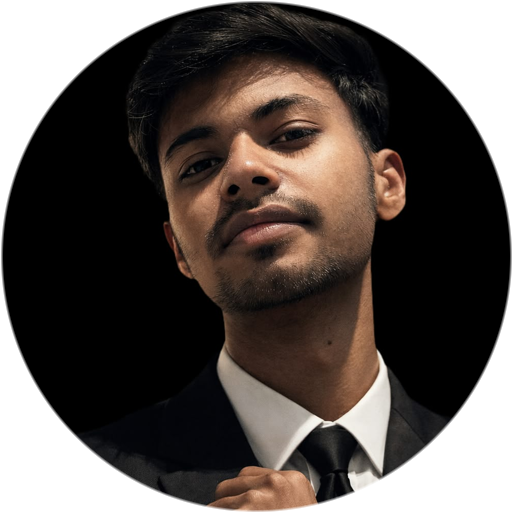
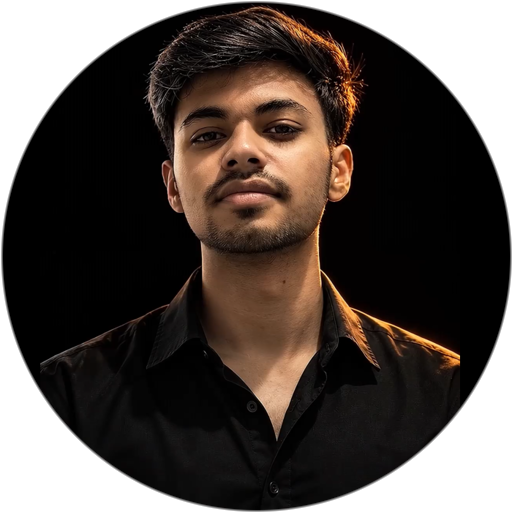
feat(projects): add Spotify clone, update Amana Capital image & repo, update circular URL portrait

diff --git a/src/components/projects/ProjectPreviewMockup.tsx b/src/components/projects/ProjectPreviewMockup.tsx
@@ -1,14 +1,16 @@
 'use client'
 
 import React from 'react'
+import Image from 'next/image'
 import styles from './HorizontalProjectCard.module.scss'
 
 interface ProjectPreviewMockupProps {
   projectId: string
   title: string
+  image?: string
 }
 
-export function ProjectPreviewMockup({ projectId, title }: ProjectPreviewMockupProps) {
+export function ProjectPreviewMockup({ projectId, title, image }: ProjectPreviewMockupProps) {
   if (projectId === 'amana-capital') {
     return (
       <div className={styles.mockupContainer} aria-label={`${title} interface preview`}>
@@ -19,64 +21,53 @@ export function ProjectPreviewMockup({ projectId, title }: ProjectPreviewMockupP
             <span className={styles.dotYellow} />
             <span className={styles.dotGreen} />
           </div>
-          <div className={styles.addressBar}>amana-capital.internal/loans/dashboard</div>
+          <div className={styles.addressBar}>amana-capital.official/loans</div>
           <div className={styles.statusLive}>
             <span className={styles.pulse} /> LIVE
           </div>
         </div>
 
-        {/* Dashboard Preview Body */}
-        <div className={styles.browserBody}>
-          <div className={styles.dashSidebar}>
-            <div className={styles.sidebarBrand}>Amana</div>
-            <div className={styles.sidebarLinkActive}>Loans</div>
-            <div className={styles.sidebarLink}>Customers</div>
-            <div className={styles.sidebarLink}>Disbursements</div>
-            <div className={styles.sidebarLink}>Reports</div>
-          </div>
+        {/* Real Screenshot Preview Body */}
+        <div className={styles.browserImageBody}>
+          <Image
+            src={image || '/images/projects/amana-capital.webp'}
+            alt="Amanah Capital Financial Solutions Platform"
+            fill
+            sizes="(max-width: 960px) 100vw, 50vw"
+            className={styles.mockupImage}
+            priority
+          />
+        </div>
+      </div>
+    )
+  }
 
-          <div className={styles.dashMain}>
-            <div className={styles.metricGrid}>
-              <div className={styles.metricBox}>
-                <span className={styles.mLabel}>Active Loans</span>
-                <span className={styles.mValue}>1,420</span>
-                <span className={styles.mTrend}>+12.4% this mo</span>
-              </div>
-              <div className={styles.metricBox}>
-                <span className={styles.mLabel}>Disbursed Total</span>
-                <span className={styles.mValue}>₹48.6L</span>
-                <span className={styles.mTrend}>99.2% repayment</span>
-              </div>
-              <div className={styles.metricBox}>
-                <span className={styles.mLabel}>System Health</span>
-                <span className={styles.mValue}>99.98%</span>
-                <span className={styles.mTrend}>JWT Auth Valid</span>
-              </div>
-            </div>
-
-            {/* Architecture loan lifecycle pipeline */}
-            <div className={styles.pipeline}>
-              <div className={styles.pipeStep}>
-                <span className={styles.stepNum}>01</span>
-                <span>Customer Records</span>
-              </div>
-              <span className={styles.pipeArrow}>→</span>
-              <div className={styles.pipeStep}>
-                <span className={styles.stepNum}>02</span>
-                <span>Loan Application</span>
-              </div>
-              <span className={styles.pipeArrow}>→</span>
-              <div className={styles.pipeStep}>
-                <span className={styles.stepNum}>03</span>
-                <span>EMI Payment</span>
-              </div>
-              <span className={styles.pipeArrow}>→</span>
-              <div className={styles.pipeStep}>
-                <span className={styles.stepNum}>04</span>
-                <span>Audit Reports</span>
-              </div>
-            </div>
+  if (projectId === 'spotify-clone') {
+    return (
+      <div className={styles.mockupContainer} aria-label={`${title} interface preview`}>
+        {/* Browser window header */}
+        <div className={styles.browserHeader}>
+          <div className={styles.trafficLights}>
+            <span className={styles.dotRed} />
+            <span className={styles.dotYellow} />
+            <span className={styles.dotGreen} />
           </div>
+          <div className={styles.addressBar}>spotify-clone.khairul.dev/web-player</div>
+          <div className={styles.statusLive}>
+            <span className={styles.pulse} /> LIVE
+          </div>
+        </div>
+
+        {/* Real Spotify Banner Preview Body */}
+        <div className={styles.browserImageBody}>
+          <Image
+            src={image || '/images/projects/spotify-clone.webp'}
+            alt="Spotify Web Player Clone"
+            fill
+            sizes="(max-width: 960px) 100vw, 50vw"
+            className={styles.mockupImage}
+            priority
+          />
         </div>
       </div>
     )

diff --git a/src/config/portfolio.ts b/src/config/portfolio.ts
@@ -132,13 +132,28 @@ export const portfolioConfig = {
       slug: 'amana-capital',
       title: 'Amana Capital',
       category: 'Loan Management System',
-      description: 'A web application for tracking microfinance loans, customer records, and automated EMI calculations with secure authentication.',
+      description:
+        'Amana Capital is an microfinance web application which gives users secure and trusted loans with customer record tracking and automated EMI calculations.',
       technologies: ['Node.js', 'Express', 'MySQL', 'JWT Auth', 'REST API'],
-      liveUrl: '#',
-      githubUrl: 'https://github.com',
+      githubUrl: 'https://github.com/khairulmiya05032006-pixel/amana-capital-official',
       featured: true,
       metrics: 'Full-Stack Web Application',
       image: '/images/projects/amana-capital.webp',
+      status: 'live',
+    },
+    {
+      id: 'spotify-clone',
+      slug: 'spotify-clone',
+      title: 'Spotify - Web Player: Music for everyone',
+      category: 'Frontend Clone',
+      description:
+        'While learning HTML and CSS build a Spotify clone replicating the media controls, playlist navigation, and responsive audio player experience.',
+      technologies: ['HTML5', 'CSS3', 'JavaScript', 'Responsive Design', 'Audio UI'],
+      liveUrl: 'https://khairulmiya05032006-pixel.github.io/spotify-clone/',
+      githubUrl: 'https://github.com/khairulmiya05032006-pixel/spotify-clone',
+      featured: true,
+      metrics: 'Interactive Web Player',
+      image: '/images/projects/spotify-clone.webp',
       status: 'live',
     },
     {
@@ -146,23 +161,12 @@ export const portfolioConfig = {
       slug: 'javascript-mini-projects',
       title: 'Interactive Web Tools Suite',
       category: 'JavaScript Utilities',
-      description: 'A collection of interactive web utilities demonstrating event handling, calculations, and responsive layouts.',
+      description:
+        'A collection of interactive web utilities demonstrating event handling, calculations, and responsive layouts.',
       technologies: ['JavaScript', 'DOM APIs', 'CSS3', 'Algorithms'],
-      featured: true,
+      featured: false,
       metrics: 'Interactive Web Tools',
       image: '/images/projects/js-projects.webp',
-      status: 'coming-soon',
-    },
-    {
-      id: 'visual-studies',
-      slug: 'visual-studies',
-      title: 'Visual Layout & UX Studies',
-      category: 'Frontend Design & Layouts',
-      description: 'Explorations in responsive web design, modern CSS grid and flexbox patterns, and clean dark-mode interfaces.',
-      technologies: ['HTML5', 'SCSS', 'Responsive Design', 'CSS Grid'],
-      featured: false,
-      metrics: 'Responsive Layouts',
-      image: '/images/projects/visual-studies.webp',
       status: 'coming-soon',
     },
   ] as ProjectItem[],

diff --git a/src/components/projects/HorizontalProjectCard.tsx b/src/components/projects/HorizontalProjectCard.tsx
@@ -89,7 +89,7 @@ export function HorizontalProjectCard({
               </div>
             ) : (
               <>
-                {project.liveUrl && (
+                {project.liveUrl && project.liveUrl !== '#' && (
                   <a
                     href={project.liveUrl}
                     className={styles.primaryBtn}
@@ -106,7 +106,11 @@ export function HorizontalProjectCard({
                 {project.githubUrl && (
                   <a
                     href={project.githubUrl}
-                    className={styles.secondaryBtn}
+                    className={
+                      project.liveUrl && project.liveUrl !== '#'
+                        ? styles.secondaryBtn
+                        : styles.primaryBtn
+                    }
                     target="_blank"
                     rel="noopener noreferrer"
                     aria-label={`View source code of ${project.title} on GitHub`}
@@ -129,7 +133,11 @@ export function HorizontalProjectCard({
               isComingSoon ? styles.mockupWrapperSoftened : ''
             }`}
           >
-            <ProjectPreviewMockup projectId={project.id} title={project.title} />
+            <ProjectPreviewMockup
+              projectId={project.id}
+              title={project.title}
+              image={project.image}
+            />
           </div>
 
           {isComingSoon && (

diff --git a/src/components/projects/HorizontalProjectCard.module.scss b/src/components/projects/HorizontalProjectCard.module.scss
@@ -576,6 +576,28 @@
   box-shadow: 0 0 6px #a78bfa;
 }
 
+.browserImageBody {
+  position: relative;
+  flex: 1;
+  width: 100%;
+  min-height: 220px;
+  overflow: hidden;
+  background: #090710;
+  display: flex;
+  align-items: center;
+  justify-content: center;
+}
+
+.mockupImage {
+  object-fit: cover;
+  object-position: center top;
+  transition: transform 0.4s cubic-bezier(0.2, 0.8, 0.2, 1);
+
+  .card:hover & {
+    transform: scale(1.04);
+  }
+}
+
 .browserBody {
   flex: 1;
   display: flex;
